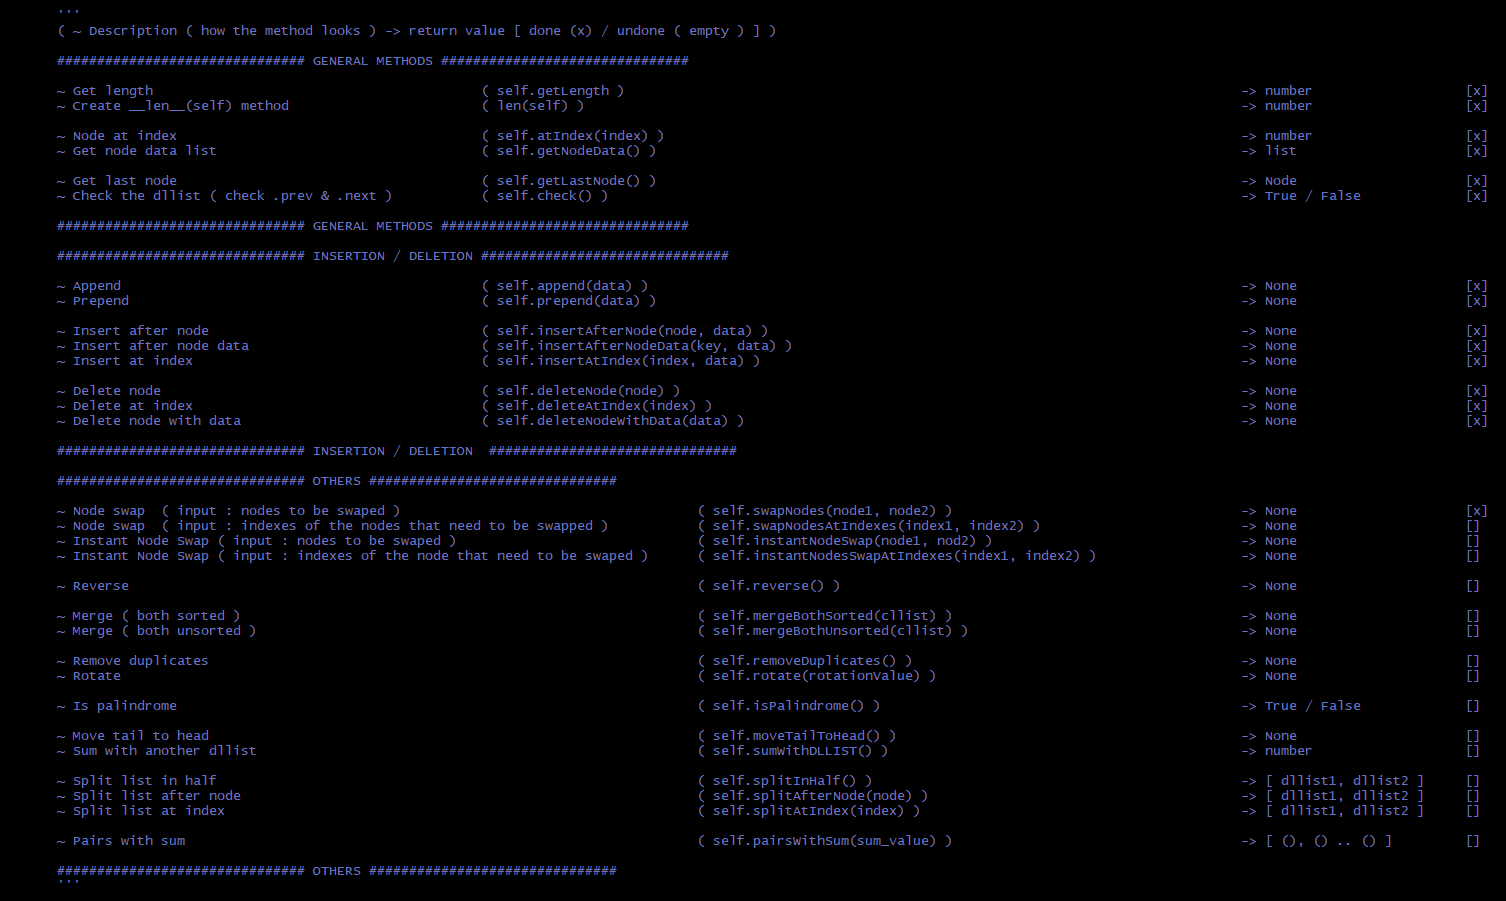
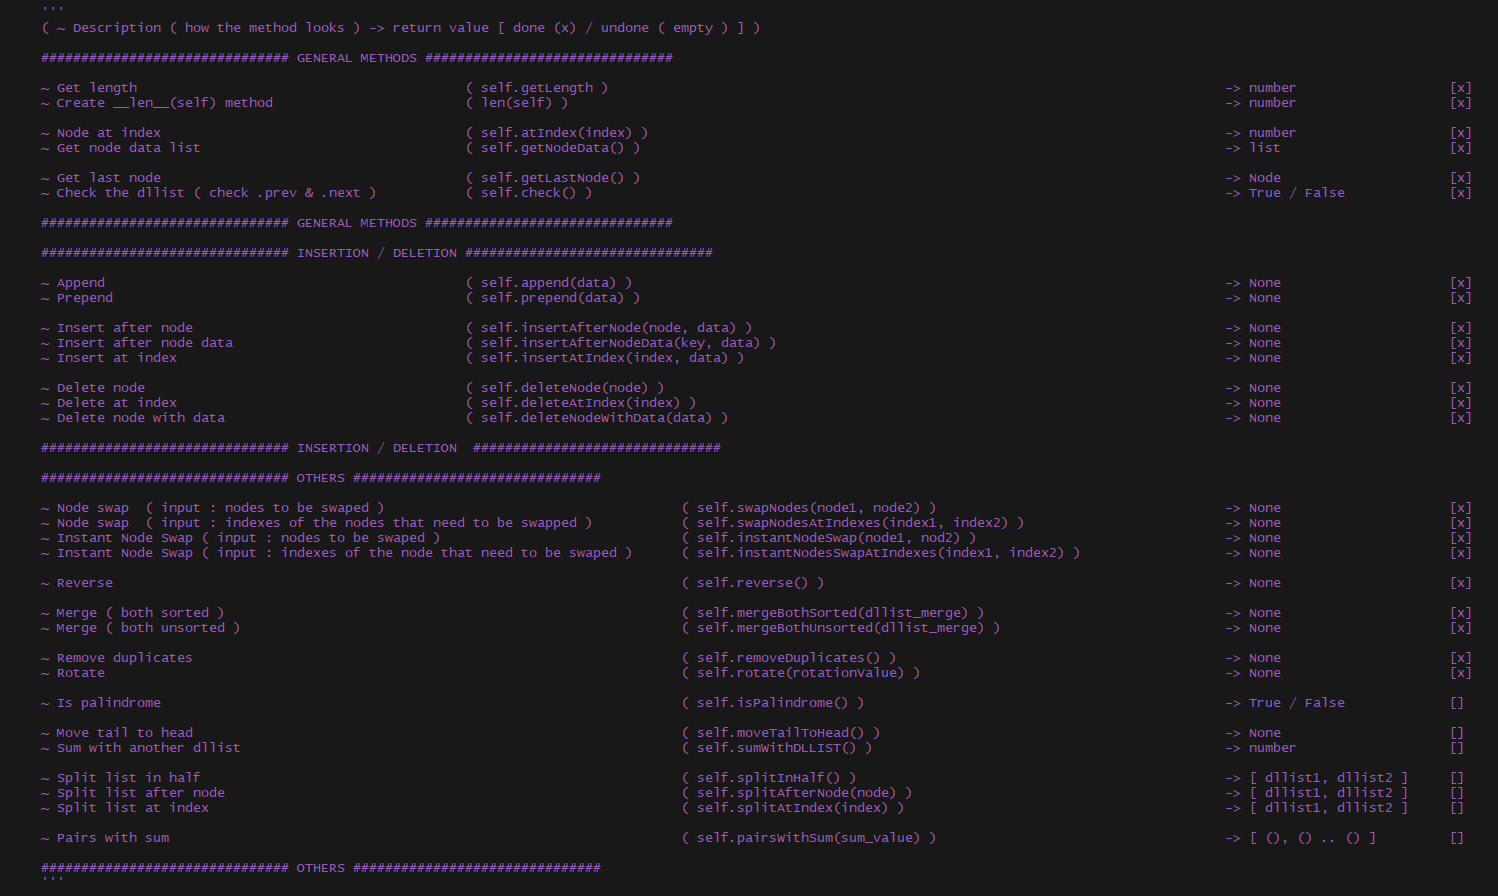
Doubly Linked List - Final Code - Finished more methods for the class + added quick sort class

diff --git a/Data structures ( code in python )/Linear Data Structures/Doubly Linked List ( Python Code )/DoublyLinkedList_FinalCode.py b/Data structures ( code in python )/Linear Data Structures/Doubly Linked List ( Python Code )/DoublyLinkedList_FinalCode.py
@@ -1,4 +1,5 @@
 import pprint
+import random
 
 class Node(object):
     def __init__(self, data):
@@ -6,6 +7,68 @@ class Node(object):
 
         self.prev = None
         self.next = None
+
+class QuickSort(object):
+    def medianOfThree(self, arr, low, high):
+        if len(arr) >= 3:
+            # Get the first, middle & last item
+            start_middle_last = [ arr[low], arr[ ( low + high ) // 2 ], arr[high] ]
+
+            # Sort it
+            start_middle_last.sort()
+
+            # Return the index of the middle item
+            return arr.index(start_middle_last[1])
+        else:
+            return random.randint(low, high)
+    def partition(self, arr, low, high):
+        # Get the pivot index
+        pivotIndex = self.medianOfThree(arr, low, high)
+        pivot = arr[pivotIndex]
+
+        # Swap the pivot index with the last element from the list to 'get it from our way'
+        arr[pivotIndex], arr[high] = arr[high], arr[pivotIndex]
+
+        # Update the pivot index
+        pivotIndex = high
+
+        # Create two pointers that will scan the list from both sides
+        LP = low        # left pointer  ( swap when arr[LP] > pivot ) 
+        RP = high - 1   # right pointer ( swap when arr[RP] < pivot )
+
+        while LP <= RP:
+            if arr[LP] > pivot and arr[RP] < pivot:
+                # Swap [LP] & [RP] 
+                arr[LP], arr[RP] = arr[RP], arr[LP]
+    
+                # Increment left pointer value
+                LP += 1
+                # Decrement right pointer value
+                RP -= 1
+            elif arr[LP] < pivot:
+                # Increment left pointer value
+                LP += 1
+            elif arr[RP] > pivot:
+                # Decrement right pointer value
+                RP -= 1
+
+
+        # Swap the pivot with the [LP] value, because we found the place for the pivot
+        arr[LP], arr[pivotIndex] = arr[pivotIndex], arr[LP]
+
+        # Update the pivot index
+        pivotIndex = LP
+
+        # Return the 'border' split value
+        return pivotIndex
+    def quickSort(self, arr, low, high):
+        if low <= high:
+            partitionBorderIndex = self.partition(arr, low, high)
+
+            self.quickSort(arr, low, partitionBorderIndex - 1)
+            self.quickSort(arr, partitionBorderIndex + 1, high)
+    def sort(self, arr):
+        self.quickSort(arr, 0, len(arr) - 1)
 
 class DoublyLinkedList(object):
     def __init__(self):
@@ -49,17 +112,17 @@ class DoublyLinkedList(object):
         ############################### OTHERS ###############################
 
         ~ Node swap  ( input : nodes to be swaped )                                     ( self.swapNodes(node1, node2) )                                    -> None                     [x]
-        ~ Node swap  ( input : indexes of the nodes that need to be swapped )           ( self.swapNodesAtIndexes(index1, index2) )                         -> None                     []
-        ~ Instant Node Swap ( input : nodes to be swaped )                              ( self.instantNodeSwap(node1, nod2) )                               -> None                     []
-        ~ Instant Node Swap ( input : indexes of the node that need to be swaped )      ( self.instantNodesSwapAtIndexes(index1, index2) )                  -> None                     []
+        ~ Node swap  ( input : indexes of the nodes that need to be swapped )           ( self.swapNodesAtIndexes(index1, index2) )                         -> None                     [x]
+        ~ Instant Node Swap ( input : nodes to be swaped )                              ( self.instantNodeSwap(node1, nod2) )                               -> None                     [x]
+        ~ Instant Node Swap ( input : indexes of the node that need to be swaped )      ( self.instantNodesSwapAtIndexes(index1, index2) )                  -> None                     [x]
 
-        ~ Reverse                                                                       ( self.reverse() )                                                  -> None                     []
+        ~ Reverse                                                                       ( self.reverse() )                                                  -> None                     [x]
 
-        ~ Merge ( both sorted )                                                         ( self.mergeBothSorted(cllist) )                                    -> None                     []
-        ~ Merge ( both unsorted )                                                       ( self.mergeBothUnsorted(cllist) )                                  -> None                     []
+        ~ Merge ( both sorted )                                                         ( self.mergeBothSorted(dllist_merge) )                              -> None                     [x]
+        ~ Merge ( both unsorted )                                                       ( self.mergeBothUnsorted(dllist_merge) )                            -> None                     [x]
 
-        ~ Remove duplicates                                                             ( self.removeDuplicates() )                                         -> None                     []
-        ~ Rotate                                                                        ( self.rotate(rotationValue) )                                      -> None                     []
+        ~ Remove duplicates                                                             ( self.removeDuplicates() )                                         -> None                     [x]
+        ~ Rotate                                                                        ( self.rotate(rotationValue) )                                      -> None                     [x]
 
         ~ Is palindrome                                                                 ( self.isPalindrome() )                                             -> True / False             []
 
@@ -559,11 +622,185 @@ class DoublyLinkedList(object):
         # Swap the data of the nodes
         node1.data, node2.data = node2.data, node1.data
 
+    def reverse(self):
+        # Reverse the direction of the arrows ( .next & .prev ) for each node while iterating over all nodes
+        prev = None
+        current = self.head
+        while current:
+            nxtNode = current.next
+            current.prev, current.next = current.next, current.prev
+
+            prev = current
+            current = nxtNode
+
+        self.head = prev
+
+    def mergeBothSorted(self, dllist_merge):
+        # Check the dllist_merge argument
+        if type(dllist_merge) != DoublyLinkedList:
+            raise ValueError("The passed in dllist_merge argument must be a DoublyLinkedList class.")
+            
+        ###############################################
+        # EXAMPLE :                                  ##
+        # dllist_1 => [1, 5, 7, 9, 10]               ##
+        # dllist_2 => [2, 3, 4, 6, 8 ]               ##
+        # After merge:                               ##
+        # dllist_1 => [1, 2, 3, 4, 5, 6, 7, 8, 9, 10]##
+        ###############################################
+
+        # Create the pointers
+        mp = None               # main pointer
+        up = self.head          # up pointer   ( the pointer that iterates over the main dllist ( self ) )
+        dp = dllist_merge.head  # down pointer ( the pointer that iterates over the dllist_merge         ) 
+
+        # Find the place for the main pointer
+        if up.data <= dp.data:
+            mp = self.head
+            up = up.next
+        elif up.data > dp.data:
+            mp = dllist_merge.head
+            dp = dp.next
+    
+        firstNode = mp
+
+        while up and dp:
+            if mp.data < dp.data and dp.data < up.data:
+                # Create a new node with the same data as the dp node
+                newNode = Node(dp.data)
+    
+                # update the pointer
+                dp = dp.next
+
+                # Change the previous pointer to the node to point to the main node that we are at now
+                newNode.prev = mp
+                
+                # Make the main pointer .next value the new node that we create
+                mp.next = newNode
+            elif mp.data < up.data and up.data < dp.data:
+                # Same as above
+                newNode = Node(up.data)
+
+                up = up.next
+
+                newNode.prev = mp 
+                mp.next = newNode
+
+            # Change the main pointer location
+            mp = mp.next
+            
+        # Change the head node of the dllist
+        self.head = firstNode
+
+        # Add leftovers
+        while up:
+            newNode = Node(up.data)
+
+            newNode.prev = mp
+            mp.next = newNode
+
+            up = up.next
+            mp = mp.next
+
+        while dp:
+            newNode = Node(dp.data)
+
+            newNode.prev = mp
+            mp.next = newNode
+
+            dp = dp.next
+            mp = mp.next
+    
+    def mergeBothUnsorted(self, dllist_merge):
+        # Steps:
+        # ~ 1. Get the node data from both lists in a bigger list
+        # ~ 2. Sort the node data list using quick sort ( median of three strategy )
+        # ~ 3. Rebuild dllist
+
+        # ~ 1.
+        nodeDataList = self.getNodeData() + dllist_merge.getNodeData() 
+
+        # ~ 2.
+        quickSort_alg = QuickSort()
+        quickSort_alg.sort(nodeDataList)
+
+        # ~ 3.
+        current = Node(nodeDataList[0])
+        self.head = current
+
+        for nodeData in nodeDataList[1:]:
+            newNode = Node(nodeData)
+
+            newNode.prev = current
+            current.next = newNode
+
+            current = current.next
+    
+    def removeDuplicates(self):
+        # Keep track of the used node data
+        usedNodeData = [self.head.data]
+
+        # Create two pointers
+        mp = self.head       # main pointer ( the one that rebuilds the node structure )
+        sp = self.head.next  # scan pointer ( the one that iterates over all the nodes in the list checking for their data )
+            
+        while sp:
+            # Check if the scan pointer data has already been used
+            if sp.data not in usedNodeData:
+                # Create a new node with the data
+                newNode = Node(sp.data)
+
+                # Set the .prev for the new node & the .next for the main pointer 
+                newNode.prev = mp
+                mp.next = newNode
+            
+                # Update the main pointer
+                mp = mp.next
+
+                # Add the used node data to the list so that we will know next time that this data has already been used
+                usedNodeData.append(sp.data)
+            
+            sp = sp.next
+    
+    def rotate(self, rotationValue):
+        # Check the rotation value
+        if rotationValue > self.length:
+            raise ValueError("The given rotation value if bigger than the length of the dllist. Try again with a smaller value. ( <= self.length ).")
+
+        beforeRotationValue = None
+        mainRotationNode = None
+        lastNode = None
+
+        prev = None
+        current = self.head
+        counter = 0
+
+        while current: 
+            if counter == rotationValue:
+                mainRotationNode = current
+                beforeRotationValue = current.prev 
+
+
+            counter += 1
+
+            prev = current
+            current = current.next
+            
+    
+        lastNode = prev
+
+        beforeRotationValue.next = None
+        lastNode.next = self.head
+        self.head.prev = lastNode
+
+        mainRotationNode.prev = None
+        self.head = mainRotationNode
+
+
     ############################### OTHERS ###############################
 
 dllist = DoublyLinkedList()
 
-for i in list(range(1, 6)):
+for i in list(range(10, 61, 10)): 
     dllist.append(i)
 
 print(" START ( length : {0} ) : ".format(len(dllist)))
@@ -572,8 +809,7 @@ pprint.pprint(dllist.getNodeData(), indent = 50)
 for i in range(3):
     print()
 
-# 0 1 2 3 4
-dllist.instantNodeSwap(dllist.head, dllist.head.next.next.next)
+dllist.rotate(4)
 
 for i in range(3):
     print()
